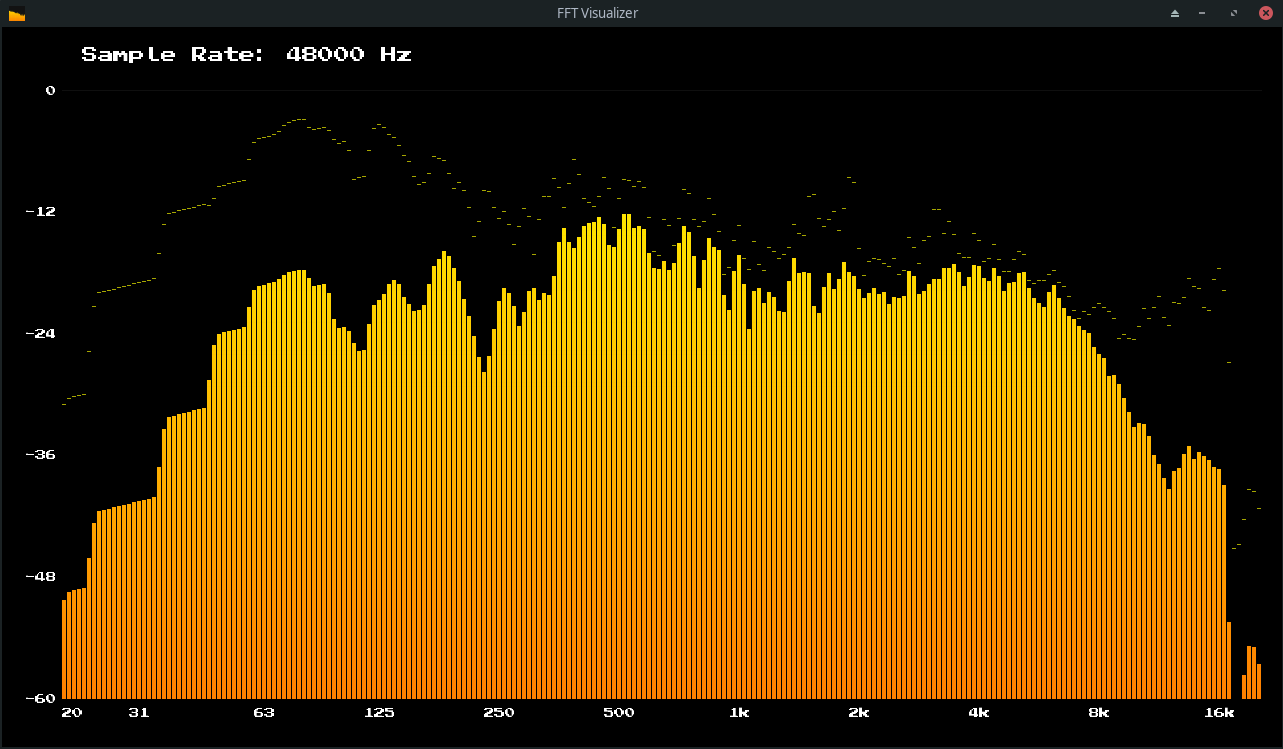
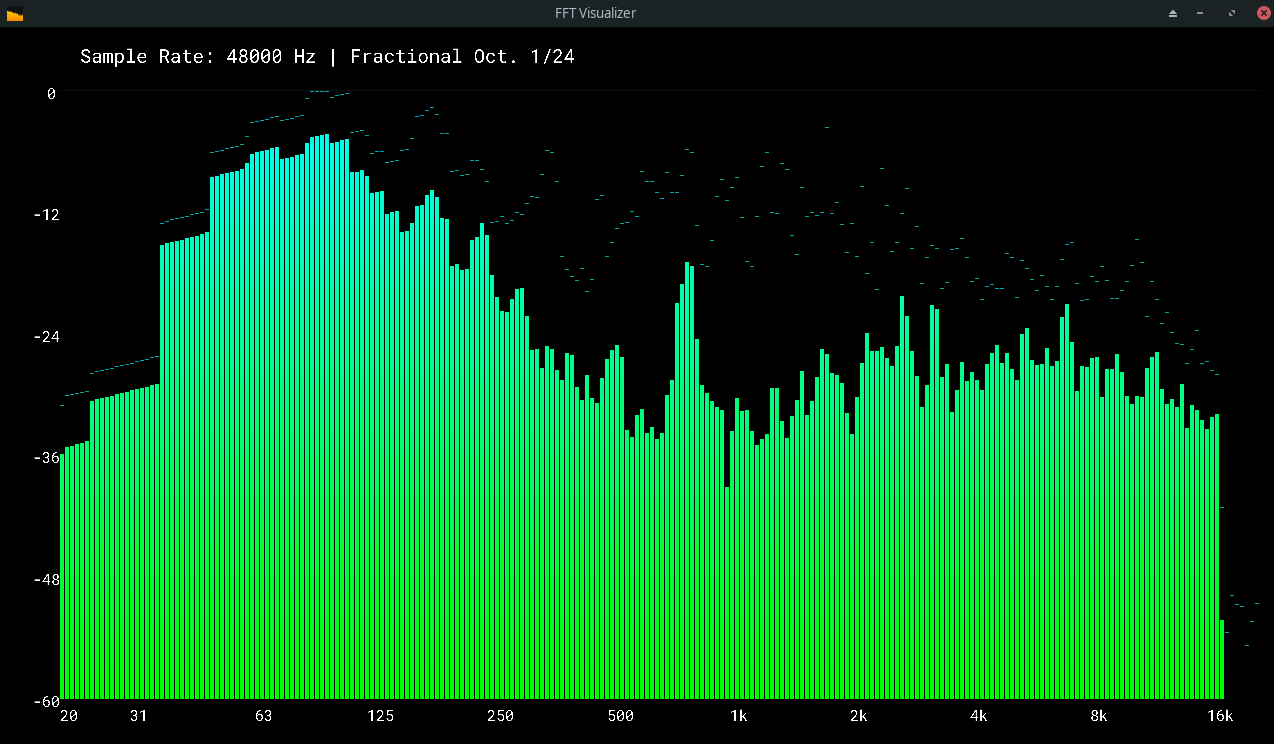
Allow the user to change colors of the gradient with the C key

diff --git a/src/spectrum.c b/src/spectrum.c
@@ -25,6 +25,15 @@ void spectrum_set_fractional_octave(spectrum_state_t *s, double frac, int index)
     s->fractional_octave_index = index;
 }
 
+Texture2D
+create_gradient_texture(int height, bar_gradient_t grad)
+{
+    Image img = GenImageGradientLinear(1, height, 0, grad.top, grad.bottom);
+    Texture2D tex = LoadTextureFromImage(img);
+    UnloadImage(img);
+    return tex;
+}
+
 static int
 calc_num_bars_for_width(int w)
 {
@@ -54,15 +63,6 @@ update_plot_rect(spectrum_state_t *s)
     {
         s->plot_height = 10;
     }
-}
-
-static Texture2D
-create_gradient_texture(int h)
-{
-    Image img = GenImageGradientLinear(1, h, 0, BAR_GRADIENT_TOP_COLOR, BAR_GRADIENT_BOTTOM_COLOR);
-    Texture2D tex = LoadTextureFromImage(img);
-    UnloadImage(img);
-    return tex;
 }
 
 static int
@@ -169,6 +169,12 @@ reallocate_bars_if_needed(spectrum_state_t *s)
 void spectrum_init(spectrum_state_t *s, Wave *wave, Font font)
 {
     memset(s, 0, sizeof(*s));
+
+    s->bar_gradients[0] = (bar_gradient_t){(Color){255, 128, 0, 255}, (Color){255, 255, 0, 255}};
+    s->bar_gradients[1] = (bar_gradient_t){(Color){0, 32, 255, 255}, (Color){0, 255, 255, 255}};
+    s->bar_gradients[2] = (bar_gradient_t){(Color){0, 255, 0, 255}, (Color){0, 255, 255, 255}};
+    s->bar_gradient_index = 1;
+
     s->fft_bins = FFT_WINDOW_SIZE / 2 + 1;
     s->f_min = 20.0;
     s->f_max = fmin(20000.0, (double)wave->sampleRate * 0.5);
@@ -194,7 +200,7 @@ void spectrum_init(spectrum_state_t *s, Wave *wave, Font font)
     s->hpf_prev_y = 0.0;
 
     update_plot_rect(s);
-    s->gradient_tex = create_gradient_texture(s->plot_height);
+    s->gradient_tex = create_gradient_texture(s->plot_height, s->bar_gradients[s->bar_gradient_index]);
     s->fft_rt = LoadRenderTexture(s->plot_width, s->plot_height);
     allocate_bars(s, calc_num_bars_for_width(s->plot_width));
     s->fft_plan = fftw_plan_dft_r2c_1d(FFT_WINDOW_SIZE, s->fft_in, s->fft_out, FFTW_ESTIMATE);
@@ -252,7 +258,7 @@ void spectrum_handle_resize(spectrum_state_t *s)
     if (s->gradient_tex.id)
     {
         UnloadTexture(s->gradient_tex);
-        s->gradient_tex = create_gradient_texture(s->plot_height);
+        s->gradient_tex = create_gradient_texture(s->plot_height, s->bar_gradients[s->bar_gradient_index]);
     }
 
     reallocate_bars_if_needed(s);

diff --git a/include/spectrum.h b/include/spectrum.h
@@ -16,8 +16,19 @@
 
 extern const double FRACTIONAL_OCTAVES[NUM_FRACTIONAL_OCTAVES];
 
+#define NUM_BAR_GRADIENTS 3
+
+typedef struct
+{
+    Color bottom;
+    Color top;
+} bar_gradient_t;
+
 typedef struct spectrum_state_t
 {
+    int bar_gradient_index;
+    bar_gradient_t bar_gradients[NUM_BAR_GRADIENTS];
+
     double fft_in[FFT_WINDOW_SIZE];
     fftw_complex fft_out[FFT_WINDOW_SIZE / 2 + 1];
     fftw_plan fft_plan;
@@ -62,6 +73,8 @@ typedef struct spectrum_state_t
 } spectrum_state_t;
 
 void spectrum_set_fractional_octave(spectrum_state_t *s, double frac, int index);
+Texture2D create_gradient_texture(int height, bar_gradient_t grad);
+
 void spectrum_init(spectrum_state_t *s, Wave *wave, Font font);
 void spectrum_destroy(spectrum_state_t *s);
 void spectrum_set_total_windows(spectrum_state_t *s, int total);

diff --git a/src/app.c b/src/app.c
@@ -56,6 +56,17 @@ void app_handle_input(app_state_t *app_state)
 
         spectrum_handle_resize(&app_state->spectrum_state);
     }
+
+    if (IsKeyPressed(KEY_C))
+    {
+        spectrum_state_t *s = &app_state->spectrum_state;
+        s->bar_gradient_index = (s->bar_gradient_index + 1) % NUM_BAR_GRADIENTS;
+        if (s->gradient_tex.id)
+        {
+            UnloadTexture(s->gradient_tex);
+        }
+        s->gradient_tex = create_gradient_texture(s->plot_height, s->bar_gradients[s->bar_gradient_index]);
+    }
 }
 
 void app_platform_init(app_state_t *app_state)

diff --git a/README.md b/README.md
@@ -20,6 +20,11 @@ sudo pacman -S clang raylib fftw
 ./build/c_fft_visualizer <path_to_audio_file> <--loop (optional)>
 ```
 
+## Controls
+- `O`: Change octave scaling
+- `C`: Cycle through color gradients
+- `F11`: Toggle fullscreen
+
 
 ## Screenshot
 ![screenshot](assets/screenshot.png)
